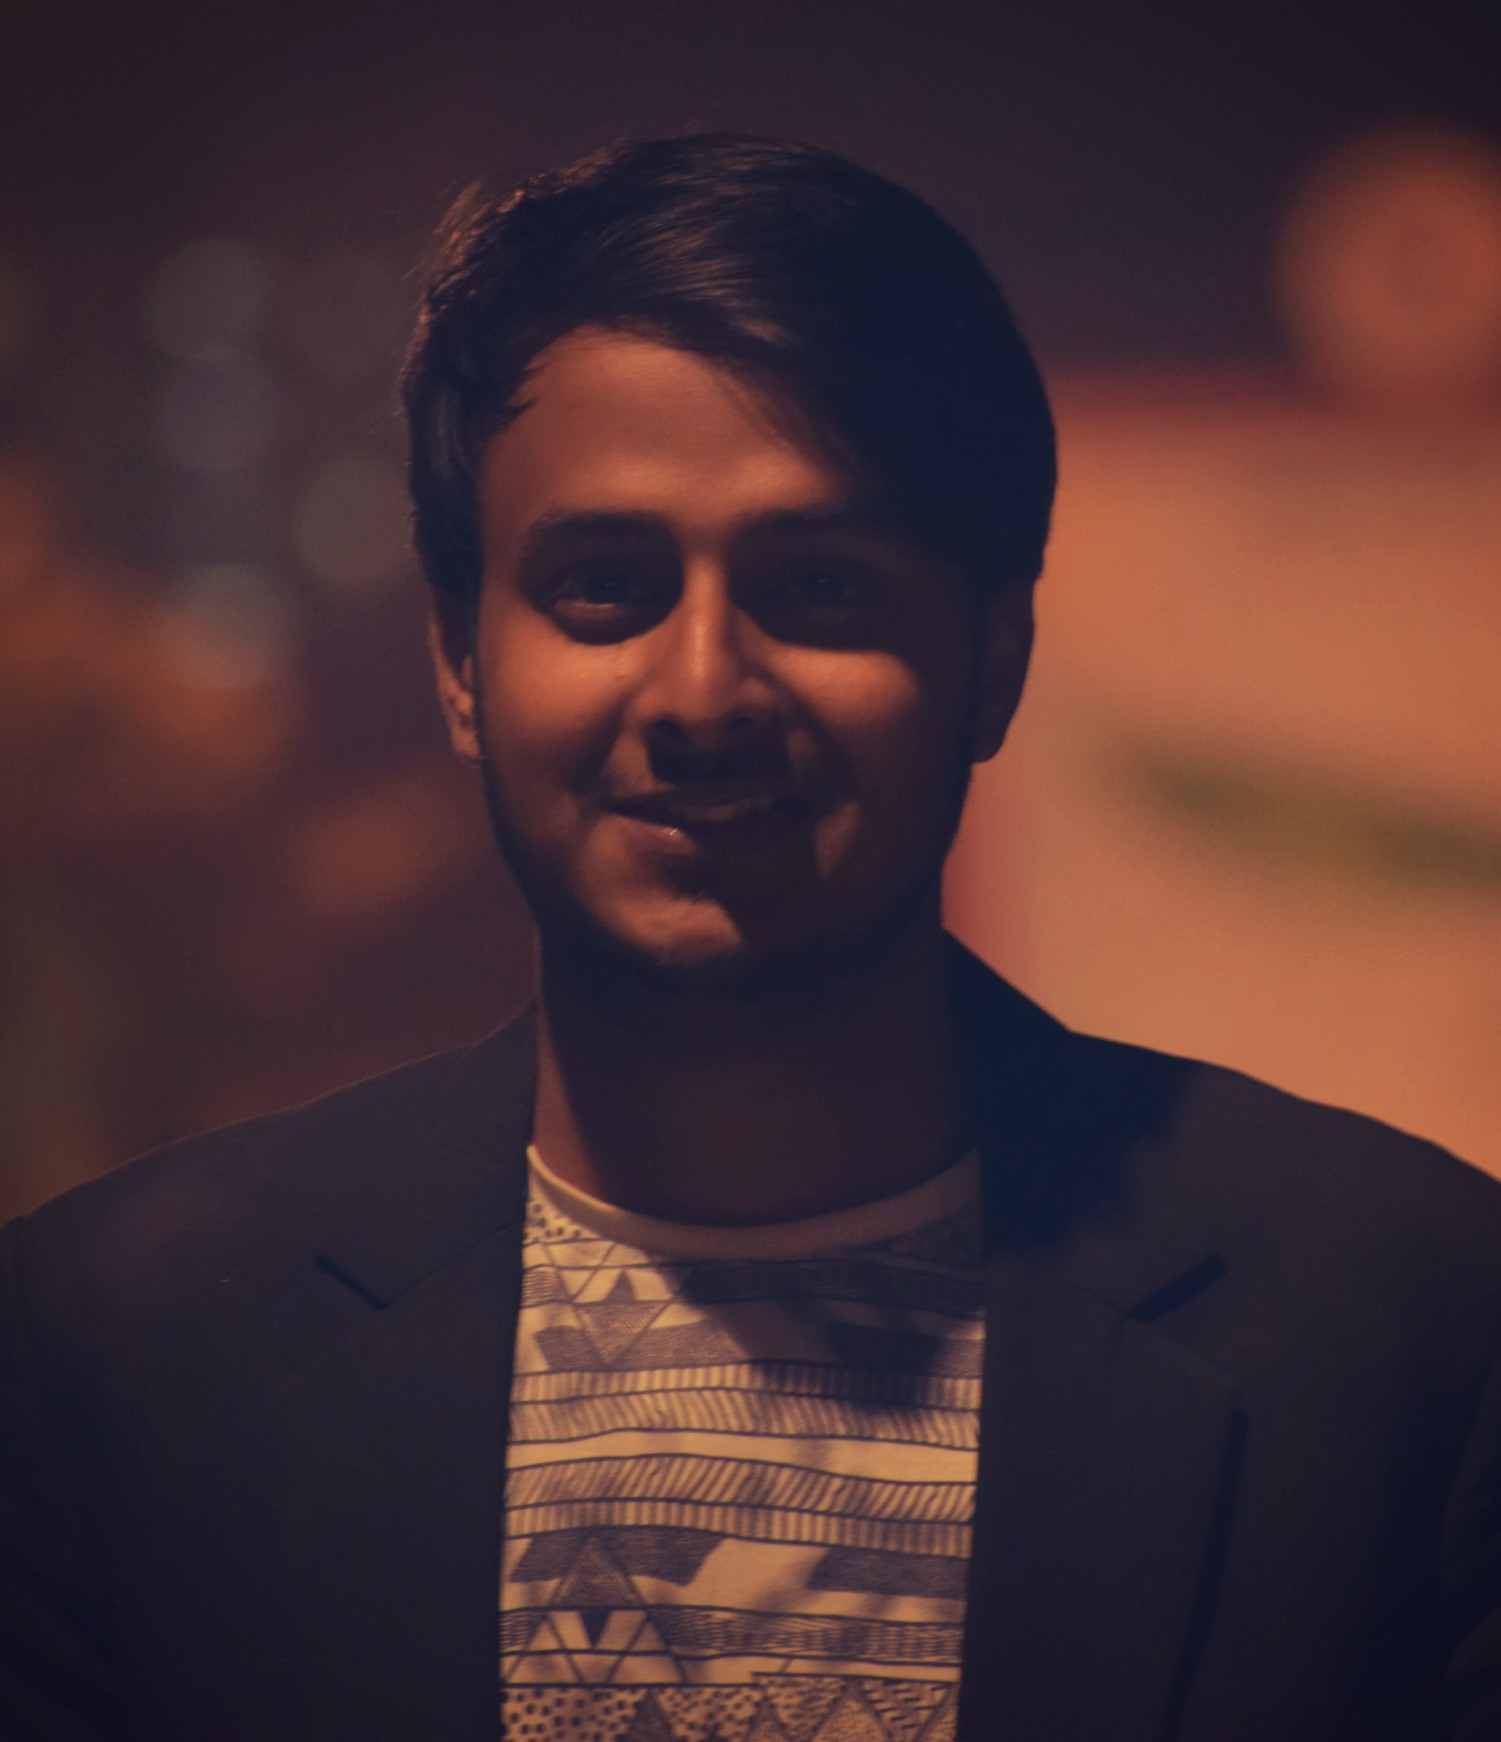
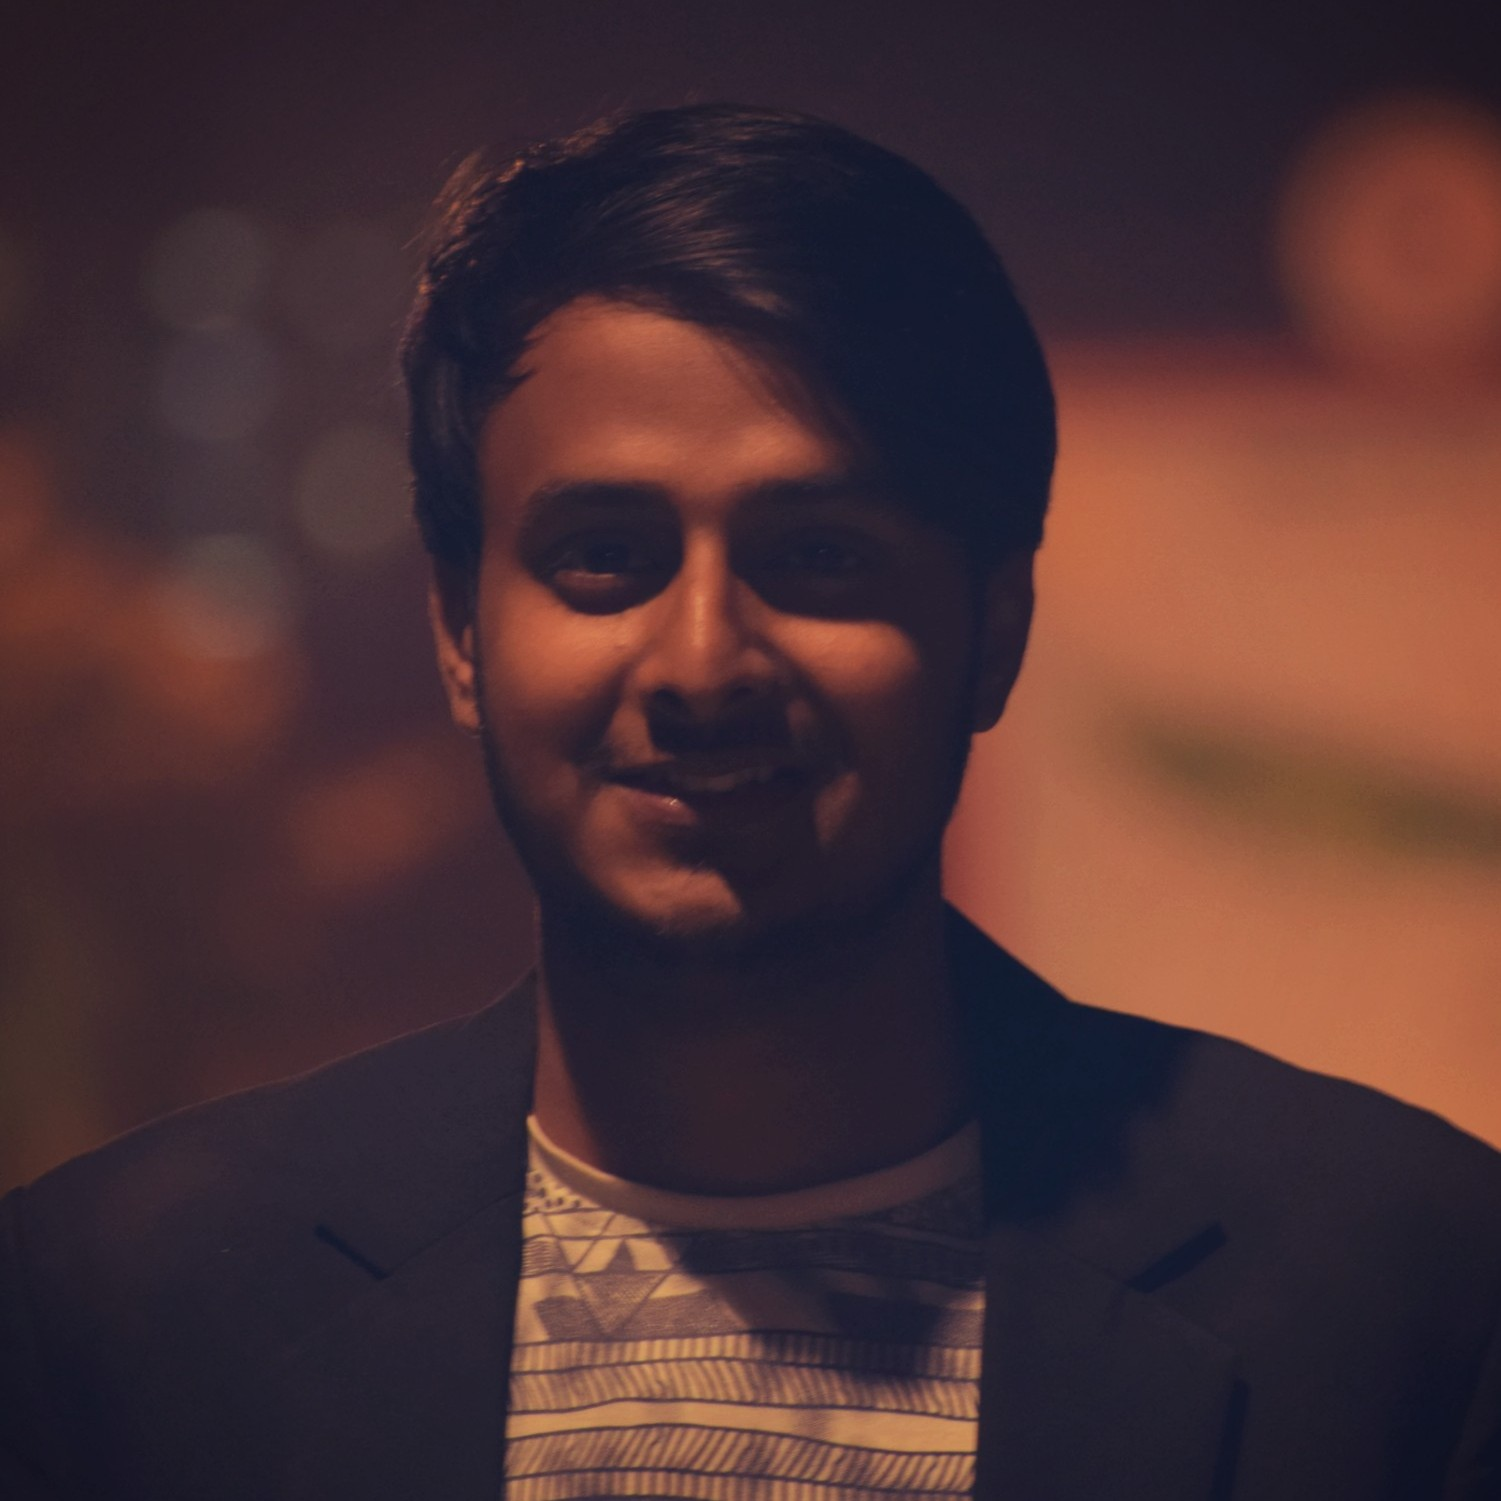
aboutsection completed

diff --git a/src/components/about/About.css b/src/components/about/About.css
@@ -1,9 +1,63 @@
 .about{
     display: flex;
+    background-color: #1f2833;
     justify-content: space-between;
     align-items: center;
-    padding: 50px;
+    height:80vh;
+    padding: 50px 15%;
+}
+.about__left{
+    display: flex;
+    flex-direction: column;
+    justify-content: center;
+    align-items: flex-start;
+}
+.about__right{
+    display: flex;
+    flex-direction: column;
+    justify-content: center;
+    align-items: center;
 }
 .about__rightbioimage{
-    width:25%;
+    width: 85%;
+    padding: 16px;
+    border: 4px solid #66fcf1;
+    border-radius: 50%;
+}
+.about__leftintro{
+    margin: 5px;
+    color:#c5c6c7;
+    font-size: 1.4rem;
+}
+.about__leftname{
+    margin: 5px 0px;
+    color:#66fcf1;
+    font-size: 5.6rem;
+}
+.about__leftbio{
+    font-size: 1.5rem;
+    color:#c5c6c7;
+}
+.about__leftcontactme{
+    margin-top: 20px;
+    color: #faf8f9;
+    background-color: #1f2833;
+    padding: 10px 25px;
+    letter-spacing: 5px;
+    outline: none;
+    transition: all cubic-bezier(0, 0.71, 1, 0.78) 0.2s;
+    font-weight: 800;
+    border: 2px solid #66fcf1;
+    border-radius: 17px;
+}
+.about__leftcontactme:hover{
+    background-color: #66fcf16b;
+    transform: translateX(12px) scale(1.1);
+}
+.about__rightsocials{
+    display: flex;
+    margin: 25px;
+    justify-content: center;
+    align-self: normal;
+    align-items: center;
 }

diff --git a/src/components/about/About.js b/src/components/about/About.js
@@ -18,10 +18,12 @@ function About() {
             </div>
             <div className="about__right">
                 <img className="about__rightbioimage" src={dp} alt="alt"/>
-                <Social imageurl={github} socialurl="https://github.com/asifkhan0410" alttext="Github"/>
-                <Social imageurl={linkedin} socialurl="https://www.linkedin.com/in/aakhan0410/" alttext="Linkedin"/>
-                <Social imageurl={hashnode} socialurl="https://twitter.com/khanasif41" alttext="hashnode"/>
-                <Social imageurl={twitter} socialurl="https://asifkhan.hashnode.dev/" alttext="Twitter"/>
+                <div className="about__rightsocials">
+                    <Social imageurl={github} socialurl="https://github.com/asifkhan0410" alttext="Github"/>
+                    <Social imageurl={linkedin} socialurl="https://www.linkedin.com/in/aakhan0410/" alttext="Linkedin"/>
+                    <Social imageurl={hashnode} socialurl="https://twitter.com/khanasif41" alttext="hashnode"/>
+                    <Social imageurl={twitter} socialurl="https://asifkhan.hashnode.dev/" alttext="Twitter"/>
+                </div>
             </div>
         </div>
     )

diff --git a/src/components/header/Header.css b/src/components/header/Header.css
@@ -8,7 +8,7 @@
 }
 .header > img{
     width:20%;
-    animation-name: signatureroll;
+    /* animation-name: signatureroll; */
     animation-timing-function: ease-in-out;
     animation-duration: 4s;
 }
@@ -18,7 +18,7 @@
     100%{transform: rotateY(360deg);}
 }
 .signature:hover{
-    animation-name: signaturerollhover;
+    /* animation-name: signaturerollhover; */
     animation-timing-function: ease-in-out;
     animation-duration: 4s;
 }

diff --git a/src/components/socials/Social.js b/src/components/socials/Social.js
@@ -1,9 +1,10 @@
 import React from 'react'
+import "./Social.css"
 
 function Social({imageurl,socialurl,alttext}) {
     return (
         <div className="social">
-            <img className="social" href={socialurl} src={imageurl} alt={alttext}/>
+            <a href={socialurl} target="_blank"><img className="socialimg" src={imageurl} alt={alttext}/></a>
         </div>
     )
 }

diff --git a/src/components/socials/Social.css b/src/components/socials/Social.css
@@ -1,0 +1,17 @@
+.social{
+    display: flex;
+    justify-content: center;
+    flex:0.12;
+    transition: all cubic-bezier(0.4, 0, 1, 1) 0.5s;
+}
+.social:hover{
+    transform: rotate(360deg);
+}
+.socialimg{
+    background-color: #c5c6c7;
+    padding: 5px;
+    border-radius: 10px;
+}
+.socialimg:hover{
+    background-color: #66fcf1;
+}
